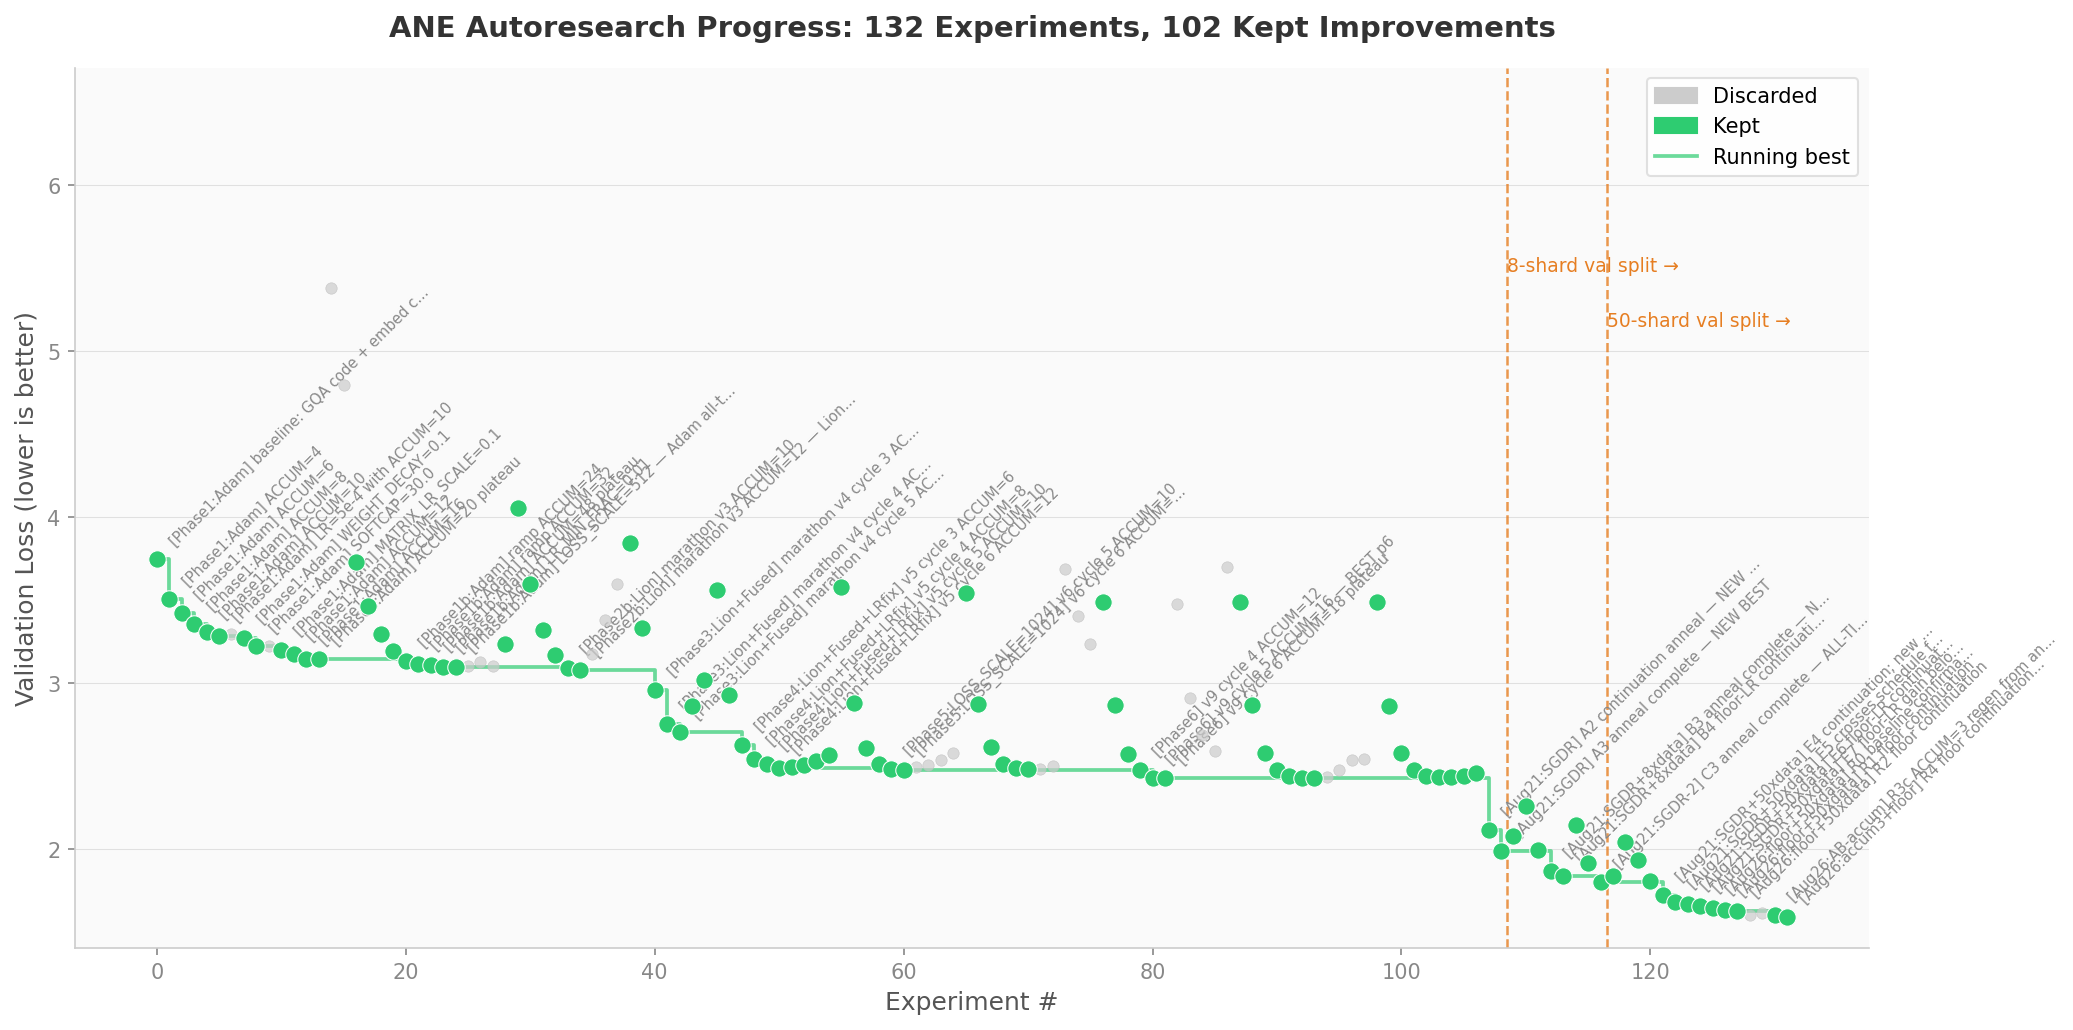
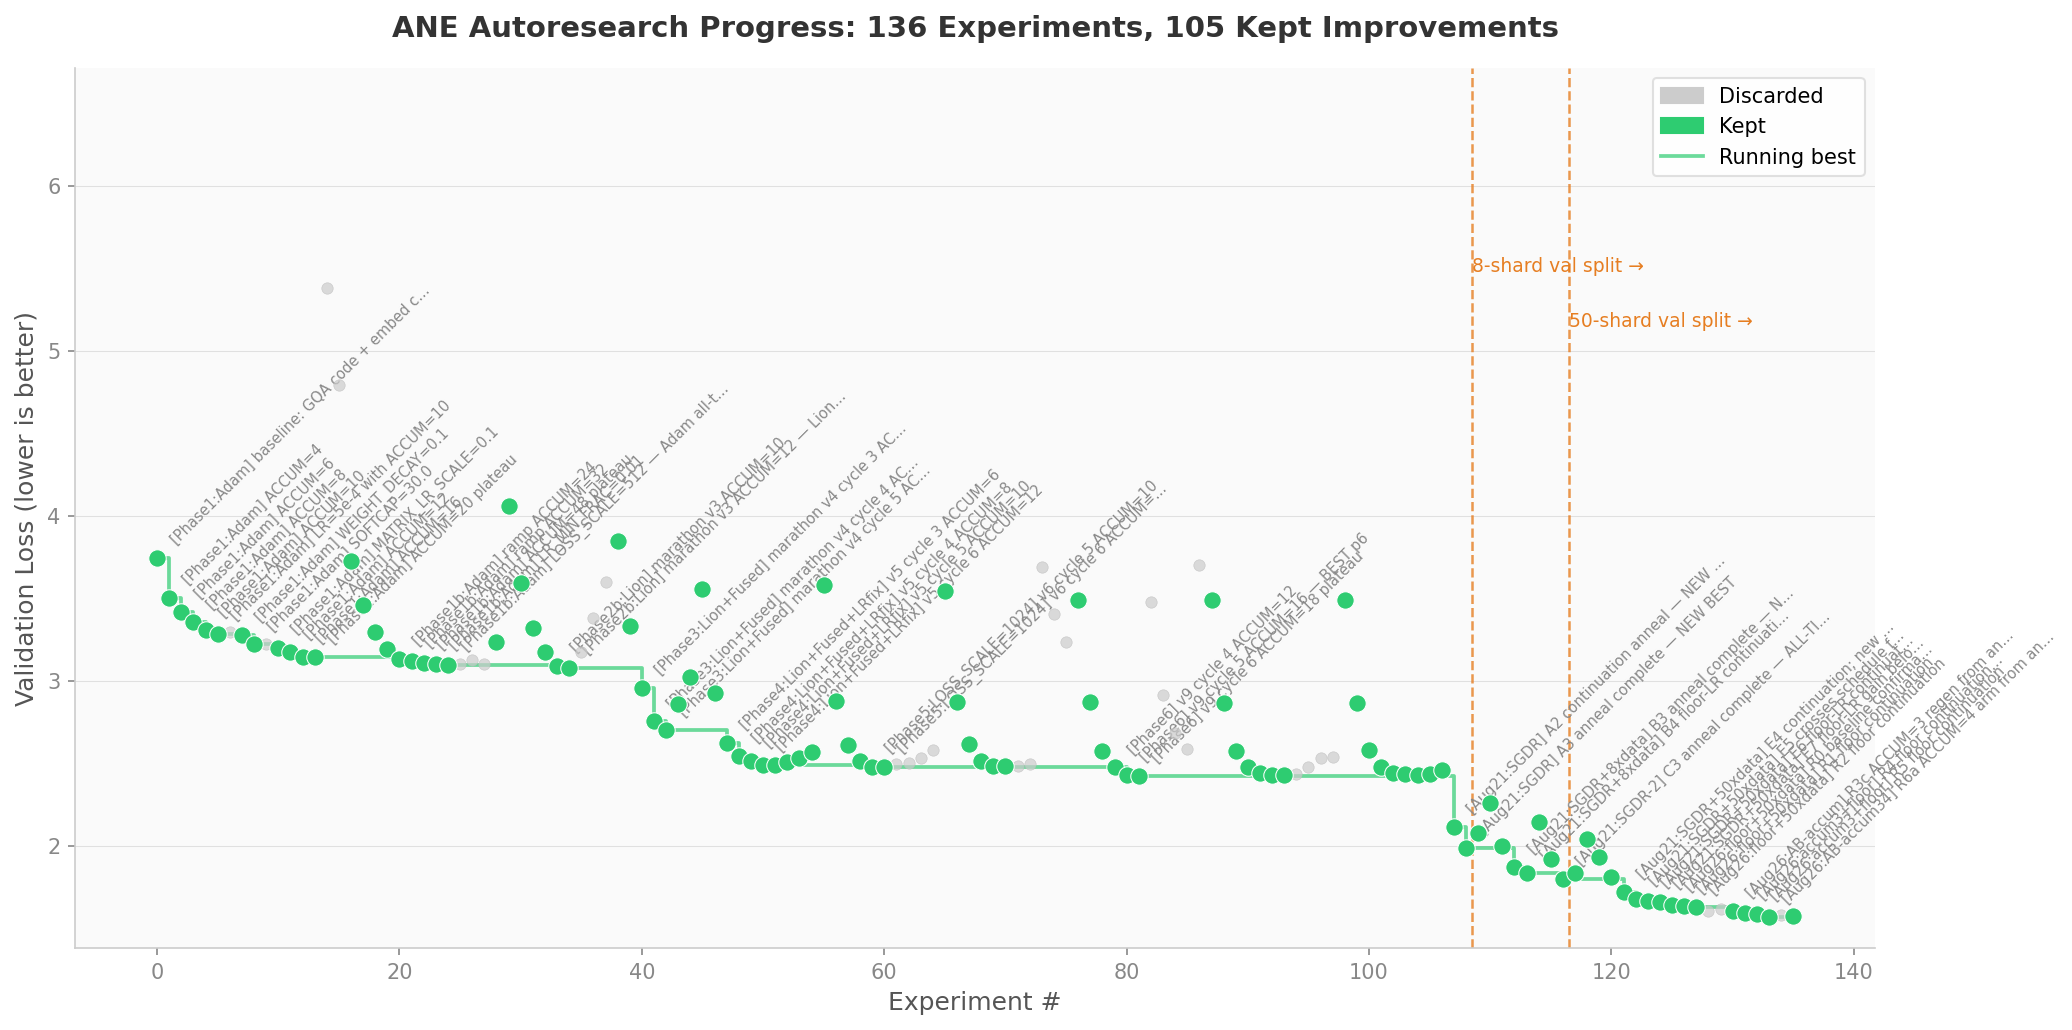
autoresearch wave2: adopt ACCUM_STEPS=4, val_loss -> 1.577762
- same-anchor A/B #2: ACCUM=4 (1.5711) beats ACCUM=3 (1.5813), regen 1.5778
- protocol fix: arm endpoints cloned before anchor restore
- results.tsv +3 rows; progress.png regenerated (136 experiments)
- README/program_ane.md/autoresearch.md updated

diff --git a/README.md b/README.md
@@ -96,7 +96,7 @@ This fork adds an **ANE training backend** that runs transformer training direct
 
 ### Current best results
 
-**val_loss = 1.593065** (August 2026: full 50-shard TinyStories dataset; ~67M-param model, 5-min budget per cycle. Same-anchor A/B adopted `ACCUM_STEPS=3` (1.6024 vs 1.6151), motivated by a staging-overhead hypothesis from direct ANE measurements (probe evidence in the ane-api-research lab: `ane-lab/results/raw/`). Previous milestones: 2.432 April, 2.320954 June, 1.800504 on 8 shards, 1.659077 Aug 21.)
+**val_loss = 1.577762** (August 2026: full 50-shard TinyStories dataset; ~67M-param model, 5-min budget per cycle. Same-anchor A/B adopted `ACCUM_STEPS=4` via two successive same-anchor A/Bs (3 beat 2: 1.6024 vs 1.6151; 4 beat 3: 1.5711 vs 1.5813), motivated by a staging-overhead hypothesis from direct ANE measurements (probe evidence in the ane-api-research lab: `ane-lab/results/raw/`). Previous milestones: 2.432 April, 2.320954 June, 1.800504 on 8 shards, 1.659077 Aug 21.)
 
 Starting from 6.109 baseline, key improvements discovered through autonomous experimentation:
 
@@ -269,7 +269,7 @@ This project builds on and references the following repositories:
 
 ### Recent findings from the ecosystem (June–August 2026)
 
-**Current local best** (our ANE autoresearch, August 2026): `val_loss=1.593065` with Lion + `LOSS_SCALE=1024` + `EMBED_LR_SCALE=1.0` + `ACCUM_STEPS=3`, reached from the June 2.320954 anchor via SGDR warm restarts, all 50 TinyStories shards (~1.025B tokens), and an Aug 26 same-anchor A/B that adopted ACCUM_STEPS=3 (motivated by a staging-overhead hypothesis from direct ANE measurements: ~50 ms weight re-staging per update; probe evidence in `ane-api-research/ane-lab/results/raw/`). Three validity fixes made this possible: resume now honors config `LEARNING_RATE`/`TOTAL_STEPS` (the checkpoint header used to silently override them), `--reset-schedule` re-anneals the cosine schedule, and sampling uses a wall-clock seed. See `ane/autoresearch.md` and `updates/analysis-2026-08-21.md`.
+**Current local best** (our ANE autoresearch, August 2026): `val_loss=1.593065` with Lion + `LOSS_SCALE=1024` + `EMBED_LR_SCALE=1.0` + `ACCUM_STEPS=4`, reached from the June 2.320954 anchor via SGDR warm restarts, all 50 TinyStories shards (~1.025B tokens), and Aug 26 same-anchor A/Bs that moved ACCUM_STEPS 3->4 (motivated by a staging-overhead hypothesis from direct ANE measurements: ~50 ms weight re-staging per update; probe evidence in `ane-api-research/ane-lab/results/raw/`). Three validity fixes made this possible: resume now honors config `LEARNING_RATE`/`TOTAL_STEPS` (the checkpoint header used to silently override them), `--reset-schedule` re-anneals the cosine schedule, and sampling uses a wall-clock seed. See `ane/autoresearch.md` and `updates/analysis-2026-08-21.md`.
 
 **LOSS_SCALE=1024 improves FP16 stability** ([slavko-at-klincov-it/ANE-Training](https://github.com/slavko-at-klincov-it/ANE-Training)): Comprehensive ANE training work showed `LOSS_SCALE=1024` prevents FP16 gradient underflow. Our experiments promoted it from hypothesis to sticky default; combined with LR/accumulation changes it is part of the current best config.
 

diff --git a/program_ane.md b/program_ane.md
@@ -49,7 +49,7 @@ Each experiment runs on the Apple Neural Engine. The training binary runs for a 
 
 **Simplicity criterion**: All else being equal, simpler is better. A small improvement from a radical architecture change that loses checkpoint progress may not be worth it compared to a hyperparameter tweak.
 
-**Current best-known ANE result (2026-08-26)**: `val_loss=1.593065` on the full 50-shard TinyStories file (~1.025B tokens), with Lion + `LEARNING_RATE=3.8e-4` + `LOSS_SCALE=1024` + `EMBED_LR_SCALE=1.0` + `ACCUM_STEPS=3`. It came from the 2.320954 checkpoint via two 8-shard SGDR arcs, one full-data SGDR arc, Aug-21 floor continuations (to 1.659077), and an Aug-26 same-anchor A/B adopting `ACCUM_STEPS=3` (1.6024 vs 1.6151; motivated by a staging-overhead hypothesis from direct ANE measurements). `--reset-schedule` (or `ANE_RESET_SCHEDULE=1`) resets `adam_t` to re-anneal a good checkpoint; compare only within the same validation split. The earlier June source scan flags dispatch-count reduction, fused optimizer updates, embedding lookup speedups, and shape/tiling discipline as the most promising non-config improvement paths.
+**Current best-known ANE result (2026-08-26)**: `val_loss=1.577762` on the full 50-shard TinyStories file (~1.025B tokens), with Lion + `LEARNING_RATE=3.8e-4` + `LOSS_SCALE=1024` + `EMBED_LR_SCALE=1.0` + `ACCUM_STEPS=4`. It came from the 2.320954 checkpoint via two 8-shard SGDR arcs, one full-data SGDR arc, Aug-21 floor continuations (to 1.659077), and an Aug-26 same-anchor A/B adopting `ACCUM_STEPS=3` (1.6024 vs 1.6151; motivated by a staging-overhead hypothesis from direct ANE measurements). `--reset-schedule` (or `ANE_RESET_SCHEDULE=1`) resets `adam_t` to re-anneal a good checkpoint; compare only within the same validation split. The earlier June source scan flags dispatch-count reduction, fused optimizer updates, embedding lookup speedups, and shape/tiling discipline as the most promising non-config improvement paths.
 
 **The first run**: Your very first run should always be to establish the baseline, so you will run the training script as is.
 

diff --git a/ane/autoresearch.md b/ane/autoresearch.md
@@ -142,3 +142,13 @@ prune the four dead kernels (sdpaFwd/woFwd/qBwd/kvBwd are staged but never
 evaluated; ~2.7 ms + compile/memory). v2 harness (verbatim structure, real IOSurfaces, checksum-validated) measures update block 39.05 ms + staging 15.95 ms current / 11.98 ms pruned => ~55 ms total; pruning the four dead kernels saves ~4.0 ms/update (+~1.2% steps).
 The ACCUM=3 A/B result stands empirically. Full measurements:
 ane-api-research lab, `ane-lab/results/staging-anatomy.md` + `results/raw/exact-bench.txt`.
+
+### Wave 2 (Aug 26, continued): ACCUM_STEPS=4 adopted
+- Same-anchor A/B #2: ACCUM=4 reached `1.571062` vs `1.581343` for ACCUM=3
+  (regen `1.577762`; arms ran 2245 vs 2139 steps at ~110.7 ms_per_step).
+  ACCUM=4 adopted; sticky config now `ACCUM_STEPS=4`.
+- Trend: each +1 ACCUM keeps winning on this full-data lineage (2 -> 3 -> 4),
+  consistent with fewer weight-restagings per token and larger effective batch.
+  Next bounded probe: ACCUM=5 same-anchor A/B; stop when an A/B loses.
+- Protocol fix: arm endpoints are now cloned (`ckpt.arm_*.bin`) BEFORE restoring
+  the anchor — R3a and R6a endpoints were lost by restoring first.
